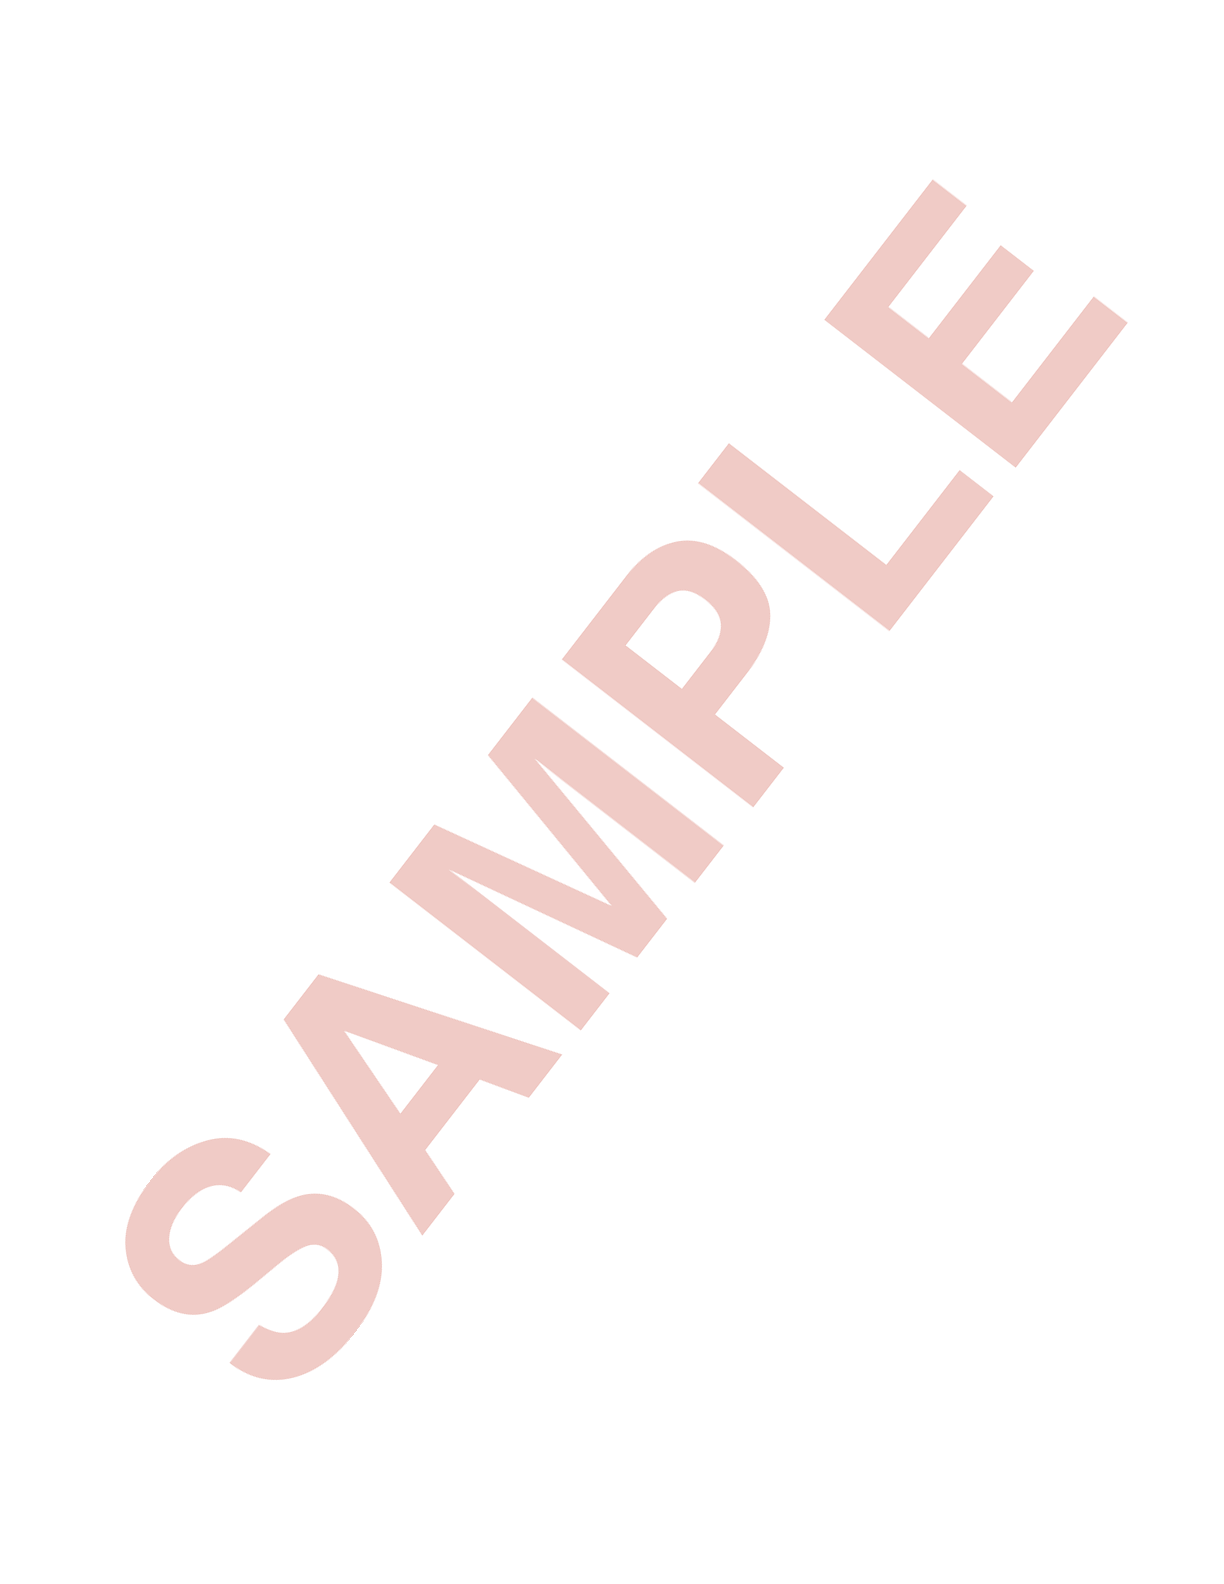
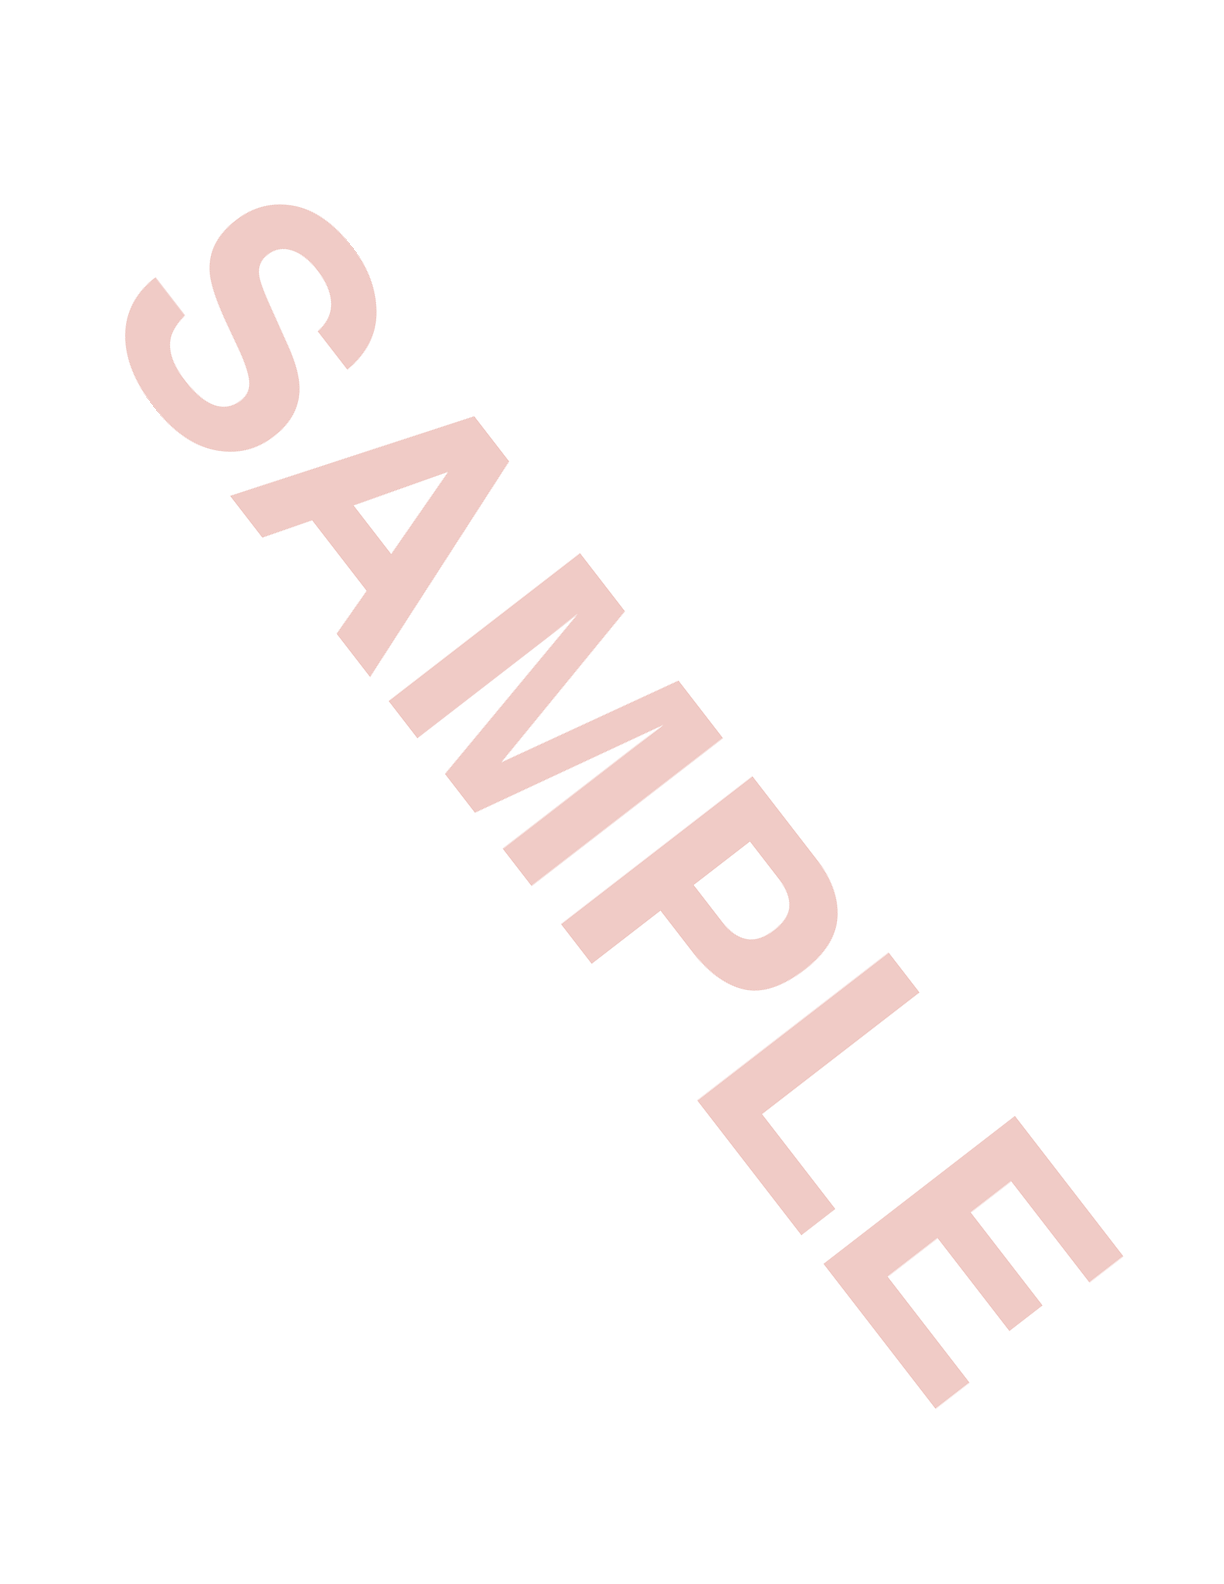
A demo letter's SAMPLE runs from the top left to the bottom right, over more of the text (#857)

Changed region(s): [[0.0931, 0.0928, 0.9314, 0.8971]]

diff --git a/tools/sample-mark.py b/tools/sample-mark.py
@@ -5,9 +5,9 @@
 """The SAMPLE mark over a Try a demo team's letter (#857): priv/pdf/sample-mark.png.
 
 Our PDF library can't rotate or fade text, but it draws a PNG's transparency, so the
-mark is a picture: SAMPLE in Helvetica Bold, corner to corner across a letter page,
-in the danger red (--danger, #c2301a) at about 25%, so the text under it reads and a
-black-and-white copy still shows it. Run it again after changing it:
+mark is a picture: SAMPLE in Helvetica Bold, from a letter page's top left corner to its
+bottom right, in the danger red (--danger, #c2301a) at about 25%, so the text under it
+reads and a black-and-white copy still shows it. Run it again after changing it:
 
     uv run tools/sample-mark.py
 
@@ -26,7 +26,8 @@ ALPHA = 64  # of 255
 HELVETICA_BOLD = ("/System/Library/Fonts/Helvetica.ttc", 1)
 OUT = Path(__file__).resolve().parent.parent / "priv/pdf/sample-mark.png"
 
-angle = math.degrees(math.atan2(PAGE[1], PAGE[0]))
+# Top left to bottom right, down the page, over the letterhead and the text below it.
+angle = -math.degrees(math.atan2(PAGE[1], PAGE[0]))
 # The word's height crosses the diagonal too, so 70% of it keeps the ends off the corners.
 diagonal = math.hypot(*PAGE)
 probe = ImageFont.truetype(HELVETICA_BOLD[0], 100, index=HELVETICA_BOLD[1])

diff --git a/docs/demo.md b/docs/demo.md
@@ -84,7 +84,7 @@ end it.
 - **Cards and letters say Sample.** A visitor can add a member with their own name and
   photo, so the verify site must never call a demo's card or letter real. Both get the
   Sample band from #854 on verify, wallet passes say "Sample card" and "Sample, not real
-  ID", and letter PDFs have SAMPLE corner to corner over the page, in translucent red
+  ID", and letter PDFs have SAMPLE from the top left corner to the bottom right, in translucent red
   (`tools/sample-mark.py` makes the picture).
 - **No Access key tab.** Its key is SAR Duty's, and a real key pasted there would turn
   the copy into a real team. The page is a 404.
